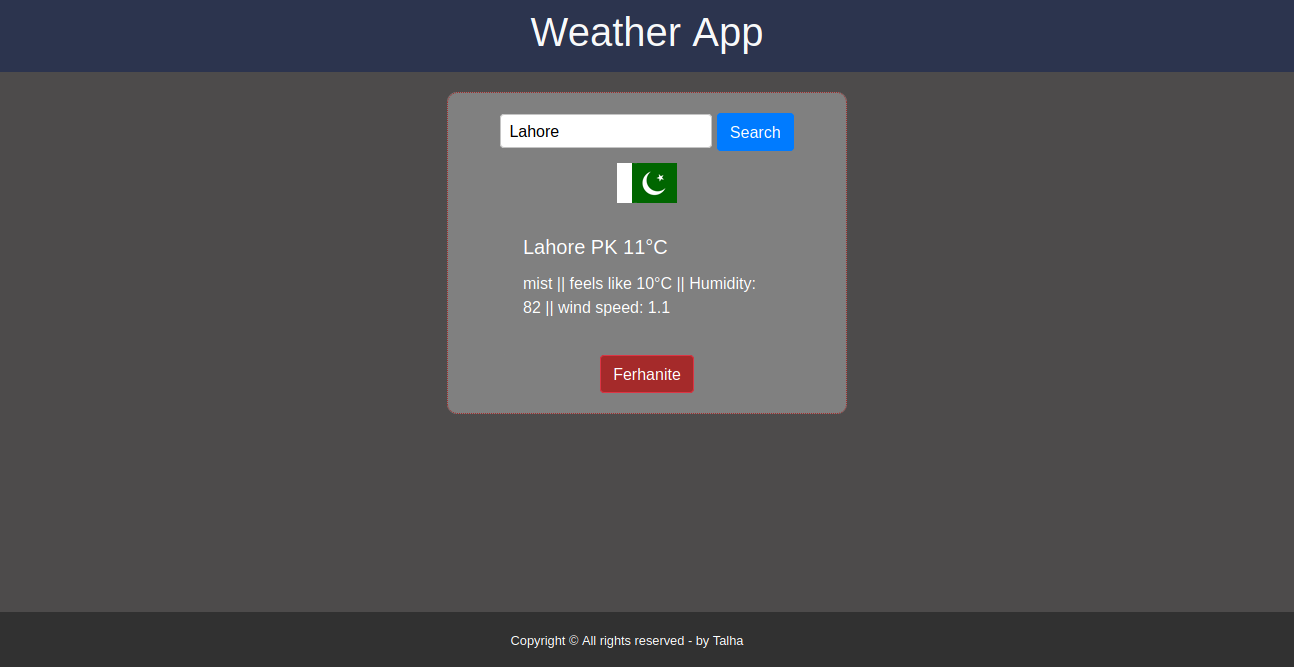
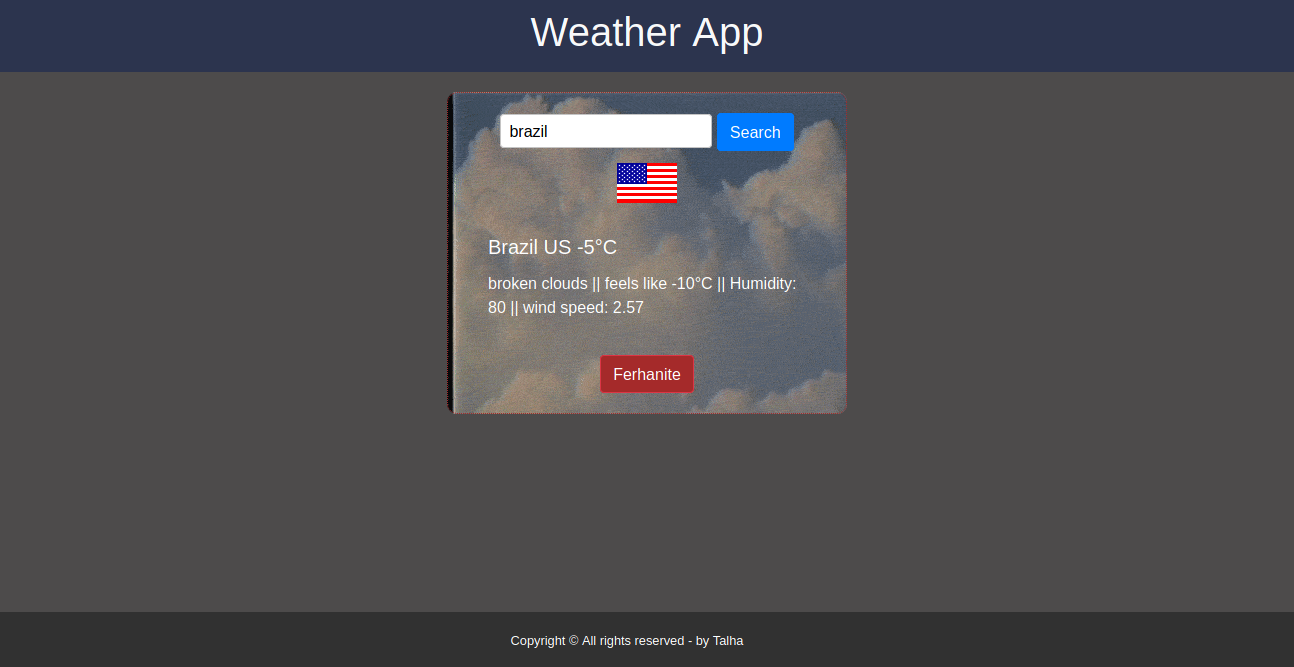
Changes done required by the tse

Changed region(s): [[0.34, 0.1199, 0.6801, 0.6297]]

diff --git a/src/dom.js b/src/dom.js
@@ -1,4 +1,4 @@
-import weatherInfo from './api-requests';
+import { weatherInfo, getImage } from './api-requests';
 
 const widgetDiv = document.getElementById('weather-info');
 
@@ -7,10 +7,12 @@ const displayWeather = async (city, centigradeUnit) => {
   let unit = '';
   let temperature = 0;
   let feelLike = 0;
-
+  // console.log(weather.weather[0]);
   if (weather.message === 'city not found') {
     widgetDiv.innerHTML = '<h5>City not Found</h5>';
     document.getElementById('toggleUnit').style.visibility = 'hidden';
+    const container = document.getElementById('weather-widget');
+    container.style.cssText = 'background-color: gray !important';
     return;
   }
   document.getElementById('toggleUnit').style.visibility = 'visible';
@@ -24,13 +26,19 @@ const displayWeather = async (city, centigradeUnit) => {
     feelLike = Math.round((weather.main.feels_like - 273) * (9 / 5) + 32);
   }
   widgetDiv.innerHTML = `
-    <div class="card" style="width: 18rem;">
+    <div class="card" id="weather-card" style="width: 18rem;">
       <img src="https://www.countryflags.io/${weather.sys.country}/flat/64.png" class="card-img-top" style="width:64px; display:inline-block; margin:auto" alt="">
       <div class="card-body">
         <h5 class="card-title"> ${weather.name} ${weather.sys.country} ${temperature}°${unit}</h5>
         <p> ${weather.weather['0'].description} || feels like ${feelLike}°${unit} || Humidity: ${weather.main.humidity} || wind speed: ${weather.wind.speed}</p>
       </div>
     </div>`;
+  const weatherImage = await getImage(weather.weather[0].main.toLowerCase());
+
+  const container = document.getElementById('weather-widget');
+  const weathercard = document.getElementById('weather-card');
+  container.style.cssText = `background: url(${weatherImage.data['0'].images.original.url});, background-size: 100% 100%;`;
+  weathercard.style.cssText = 'background: transparent !important';
 };
 
 export default displayWeather;

diff --git a/src/api-requests.js b/src/api-requests.js
@@ -1,6 +1,8 @@
 
 const url = 'https://api.openweathermap.org/data/2.5/weather?q=';
 const key = '&APPID=915030e0750a47e3644dab2f5d014e52';
+const GIFYAPIKEY = 'QUCK5K1zxPSp4P1KYmfb26YUYgIUgamw';
+const gifyUrl = `https://api.giphy.com/v1/gifs/search?api_key=${GIFYAPIKEY}&limit=1&q=`;
 
 const weatherInfo = async (city) => {
   try {
@@ -12,4 +14,14 @@ const weatherInfo = async (city) => {
   }
 };
 
-export default weatherInfo;
+const getImage = async (search) => {
+  try {
+    const response = await fetch(`${gifyUrl}${search}`, { mode: 'cors' });
+    const images = await response.json();
+    return images;
+  } catch (err) {
+    return err;
+  }
+};
+
+export { weatherInfo, getImage };

diff --git a/src/index.html b/src/index.html
@@ -11,7 +11,7 @@
         <h1 class="title">Weather App</h1>
       </nav>
     </header>
-    <div class="container">
+    <div class="container" id="weather-widget">
       <div class="row">
         <div class="col-12 d-flex flex-column align-items-center">
           <div class="inputs">
